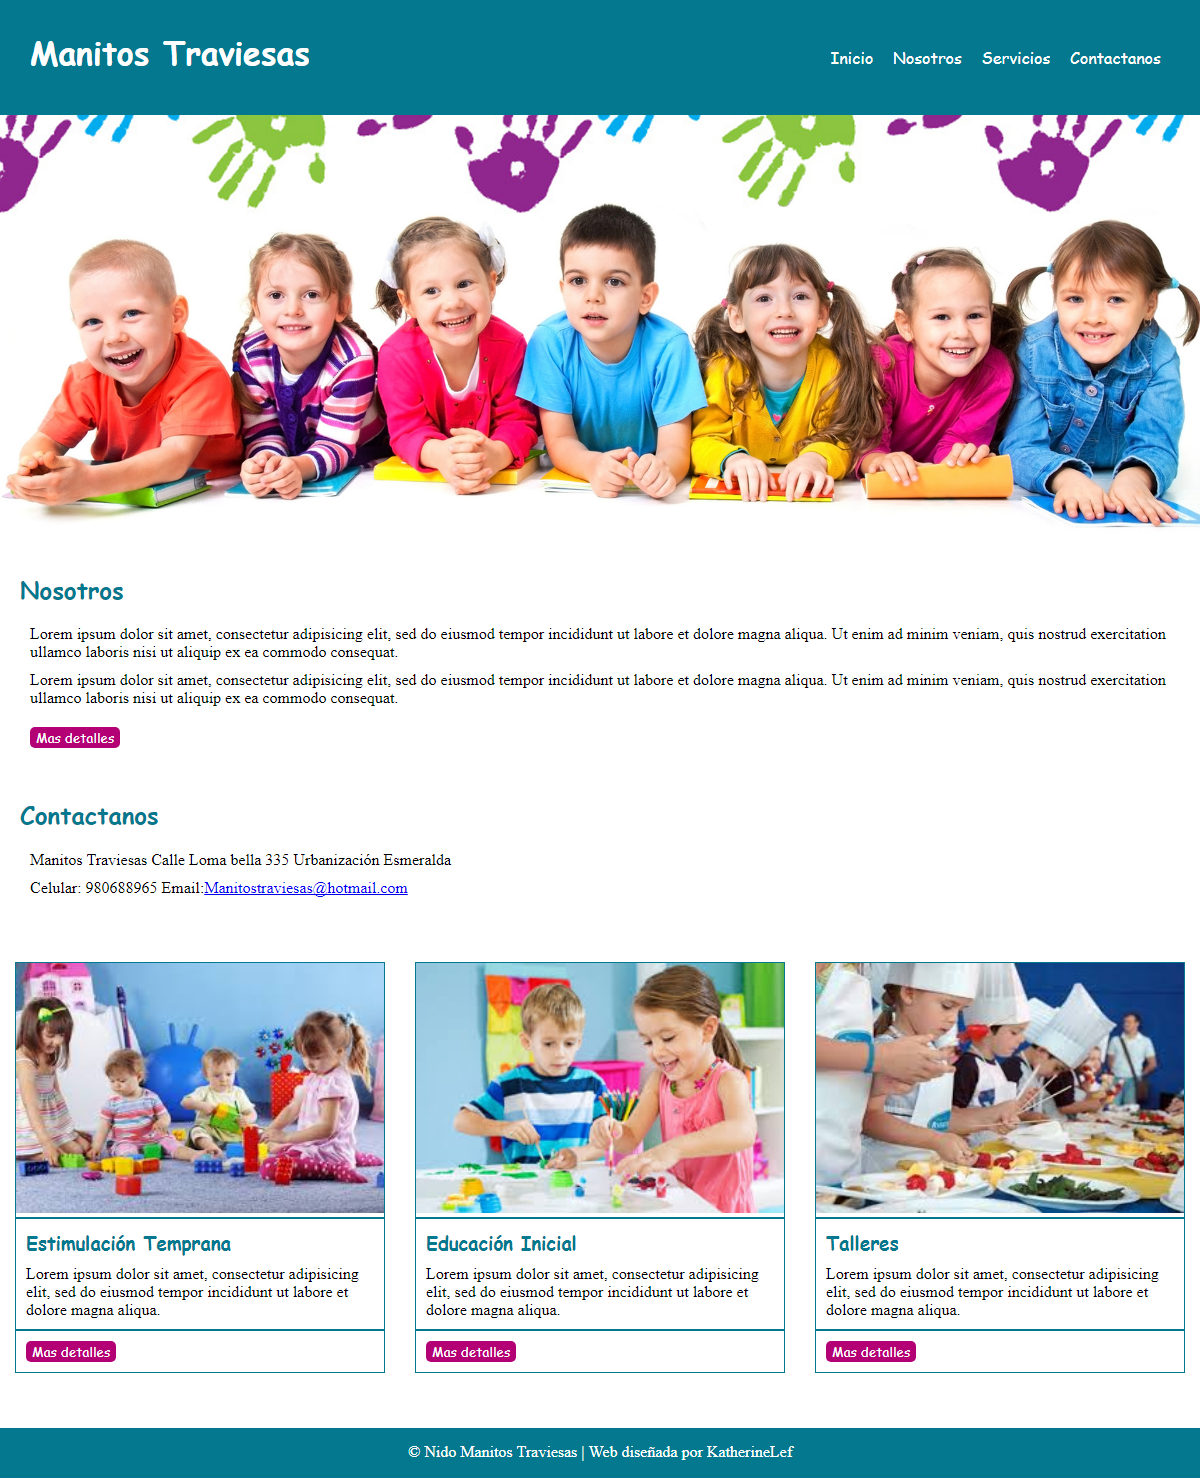
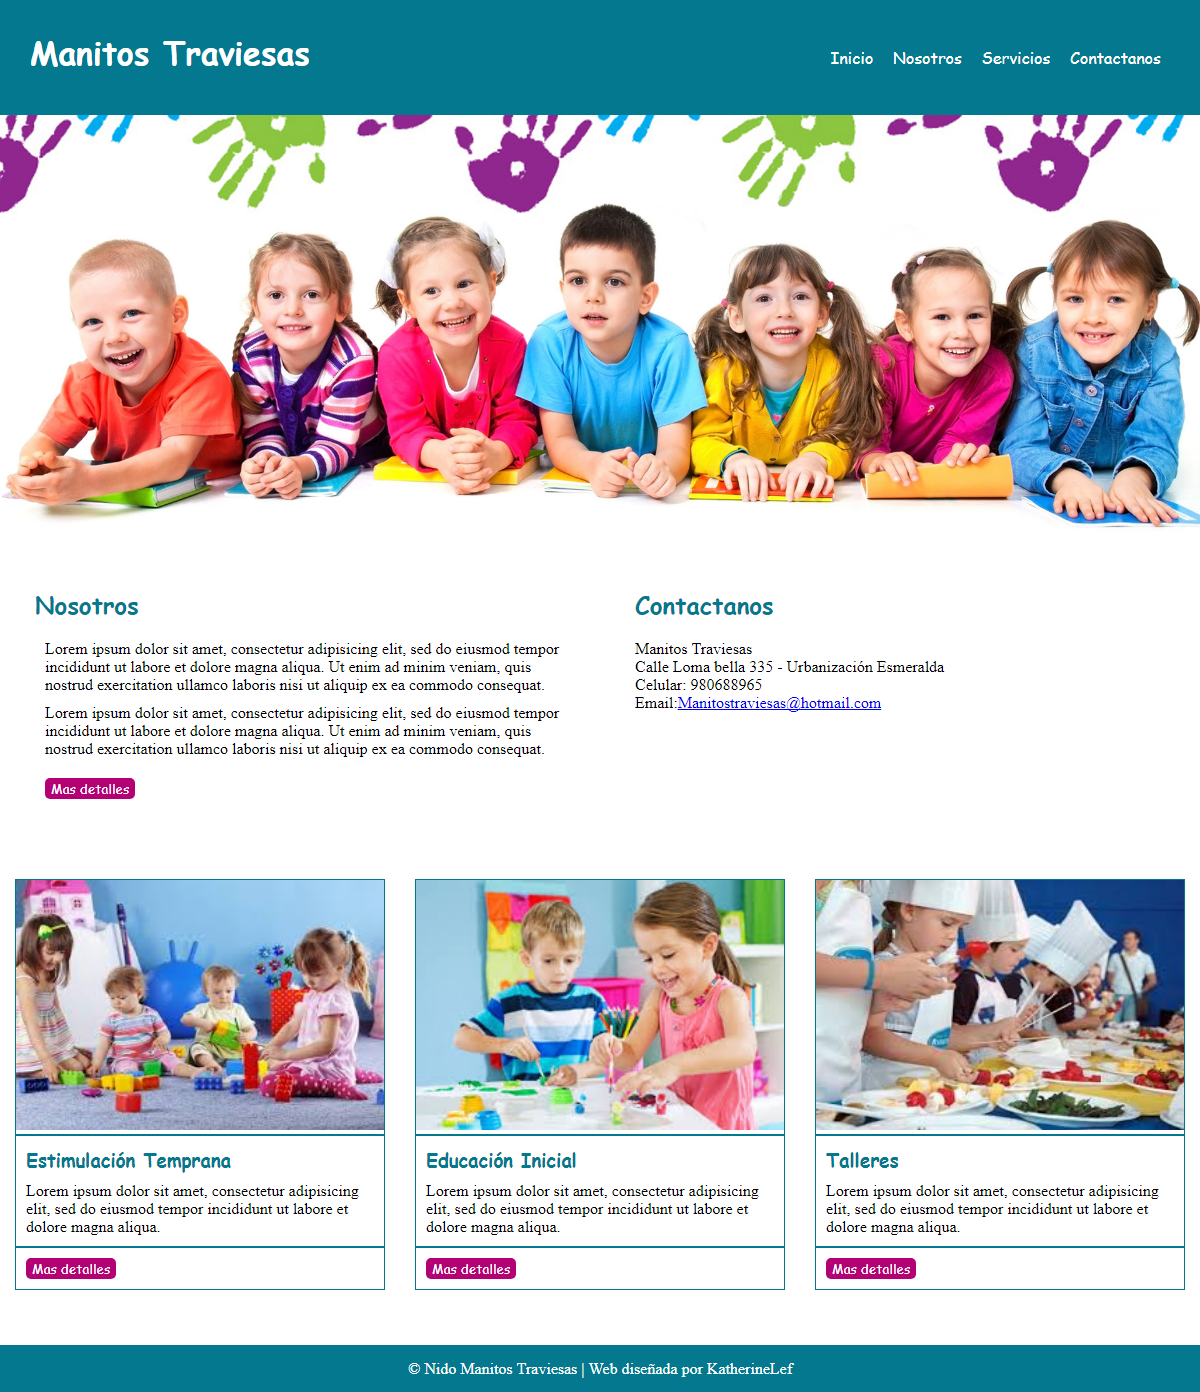
agregando grillas a seccion nosotros y contactanos

diff --git a/index.html b/index.html
@@ -33,17 +33,23 @@
         </section>
       </div>
       <div class="row">
-        <section class="Nosotros">
-          <h1>Nosotros</h1>
-          <p>Lorem ipsum dolor sit amet, consectetur adipisicing elit, sed do eiusmod tempor incididunt ut labore et dolore magna aliqua. Ut enim ad minim veniam, quis nostrud exercitation ullamco laboris nisi ut aliquip ex ea commodo consequat.</p>
-          <p>Lorem ipsum dolor sit amet, consectetur adipisicing elit, sed do eiusmod tempor incididunt ut labore et dolore magna aliqua. Ut enim ad minim veniam, quis nostrud exercitation ullamco laboris nisi ut aliquip ex ea commodo consequat.</p>
-          <input type="button" name="button" value="Mas detalles"></input>
-        </section>
-        <section class="Contactanos">
-          <h1>Contactanos</h1>
-          <p>Manitos Traviesas Calle Loma bella 335 Urbanización Esmeralda</p>
-          <p>Celular: 980688965 Email:<a href="#">Manitostraviesas@hotmail.com</a></p>
-        </section>
+        <div class="col-xs-12 col-md-6">
+          <section class="Nosotros">
+            <h1>Nosotros</h1>
+            <p>Lorem ipsum dolor sit amet, consectetur adipisicing elit, sed do eiusmod tempor incididunt ut labore et dolore magna aliqua. Ut enim ad minim veniam, quis nostrud exercitation ullamco laboris nisi ut aliquip ex ea commodo consequat.</p>
+            <p>Lorem ipsum dolor sit amet, consectetur adipisicing elit, sed do eiusmod tempor incididunt ut labore et dolore magna aliqua. Ut enim ad minim veniam, quis nostrud exercitation ullamco laboris nisi ut aliquip ex ea commodo consequat.</p>
+            <input type="button" name="button" value="Mas detalles"></input>
+          </section>
+        </div>
+        <div class="col-xs-12 col-md-6">
+          <section class="Contactanos">
+            <h1>Contactanos</h1>
+            <p>Manitos Traviesas</p>
+            <p>Calle Loma bella 335 - Urbanización Esmeralda</p>
+            <p>Celular: 980688965</p>
+            <p>Email:<a href="#">Manitostraviesas@hotmail.com</a></p>
+          </section>
+        </div>
       </div>
       <div class="row">
         <section class="servicios">

diff --git a/css/main.css b/css/main.css
@@ -199,6 +199,9 @@ header h1 {
   margin: 0;
 }
 
+.Contactanos p {
+  margin: 0;
+}
 .Nosotros , .Contactanos  {
   margin-left: 20px;
 }

diff --git a/readme.md b/readme.md
@@ -1,4 +1,4 @@
-# Freelancer
+# Mi página
 
 * **Curso:** _Crea tu propia red social_
 * **Unidad:** _La web desde un móvil_
